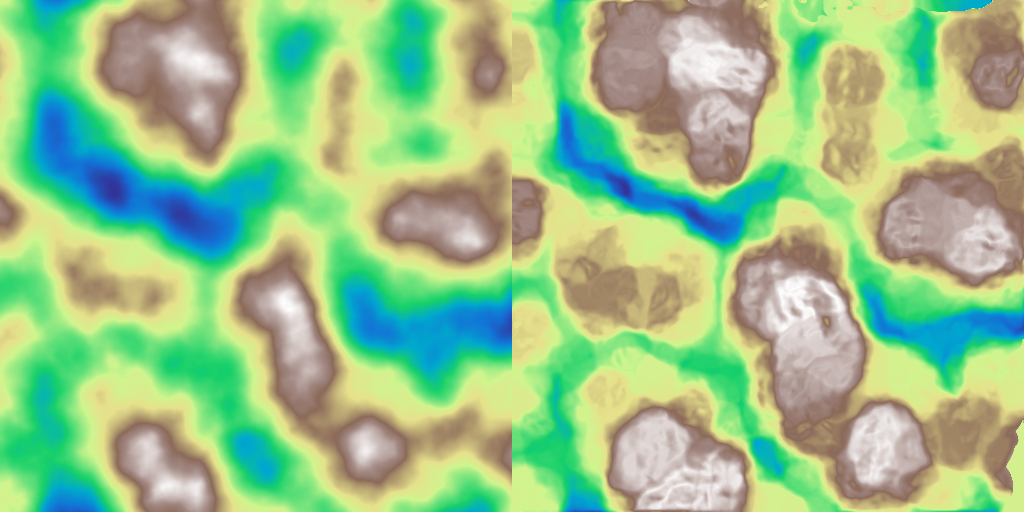
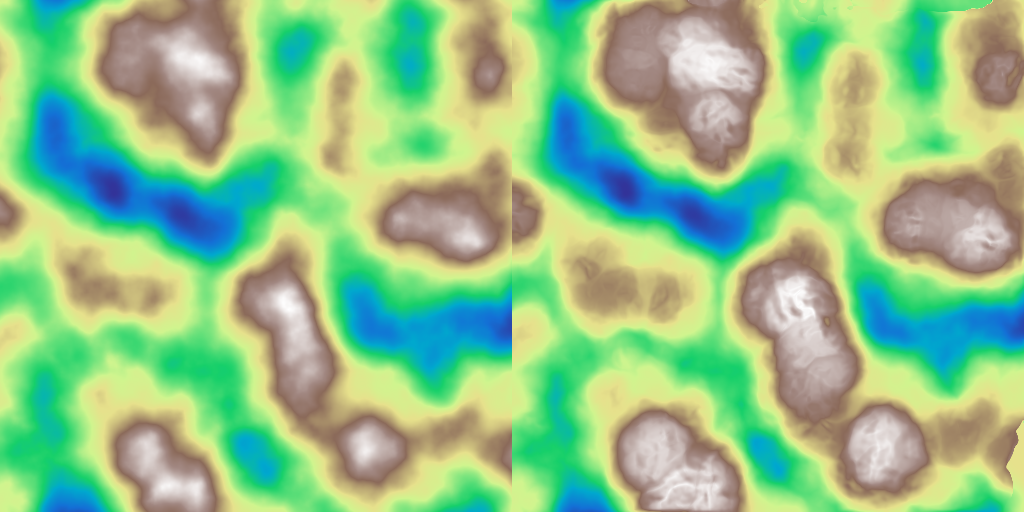
Add mask for normal displacement

Changed region(s): [[0.5, 0.0, 1.0, 1.0], [0.6562, 0.0312, 0.6875, 0.0625]]

diff --git a/include/highmap/op.hpp b/include/highmap/op.hpp
@@ -1110,6 +1110,7 @@ Array mixer(const Array t, const std::vector<Array> arrays);
  * @brief Apply a displacement to the terrain along the normal direction.
  *
  * @param array Input array.
+ * @param p_mask Filter mask, expected in [0, 1].
  * @param amount Amount of displacement.
  * @param ir Pre-filtering radius.
  * @param reverse Reverse displacement direction.
@@ -1124,6 +1125,12 @@ void normal_displacement(Array &array,
                          float  amount = 0.1f,
                          int    ir = 0,
                          bool   reverse = false);
+
+void normal_displacement(Array &array,
+                         Array *p_mask,
+                         float  amount = 0.1f,
+                         int    ir = 0,
+                         bool   reverse = false); ///< @overload
 
 /**
  * @brief Return the array elements raised to the power 'exp'.

diff --git a/src/op/transform.cpp b/src/op/transform.cpp
@@ -94,4 +94,20 @@ void normal_displacement(Array &array, float amount, int ir, bool reverse)
   array = array_new;
 }
 
+void normal_displacement(Array &array,
+                         Array *p_mask,
+                         float  amount,
+                         int    ir,
+                         bool   reverse)
+{
+  if (!p_mask)
+    normal_displacement(array, amount, ir, reverse);
+  else
+  {
+    Array array_f = array;
+    normal_displacement(array_f, amount, ir, reverse);
+    array = lerp(array, array_f, *(p_mask));
+  }
+}
+
 } // namespace hmap

diff --git a/examples/ex_normal_displacement/ex_normal_displacement.cpp b/examples/ex_normal_displacement/ex_normal_displacement.cpp
@@ -9,9 +9,12 @@ int main(void)
 
   hmap::Array z1 = hmap::fbm_perlin(shape, res, seed);
 
+  hmap::Array mask = z1;
+  hmap::remap(mask);
+
   hmap::Array z2 = z1;
-  hmap::normal_displacement(z2, 5.f, 4, false);
-  z2.infos();
+  hmap::normal_displacement(z2, &mask, 5.f, 4, false);
+
   hmap::export_banner_png("ex_normal_displacement.png",
                           {z1, z2},
                           hmap::cmap::terrain);
